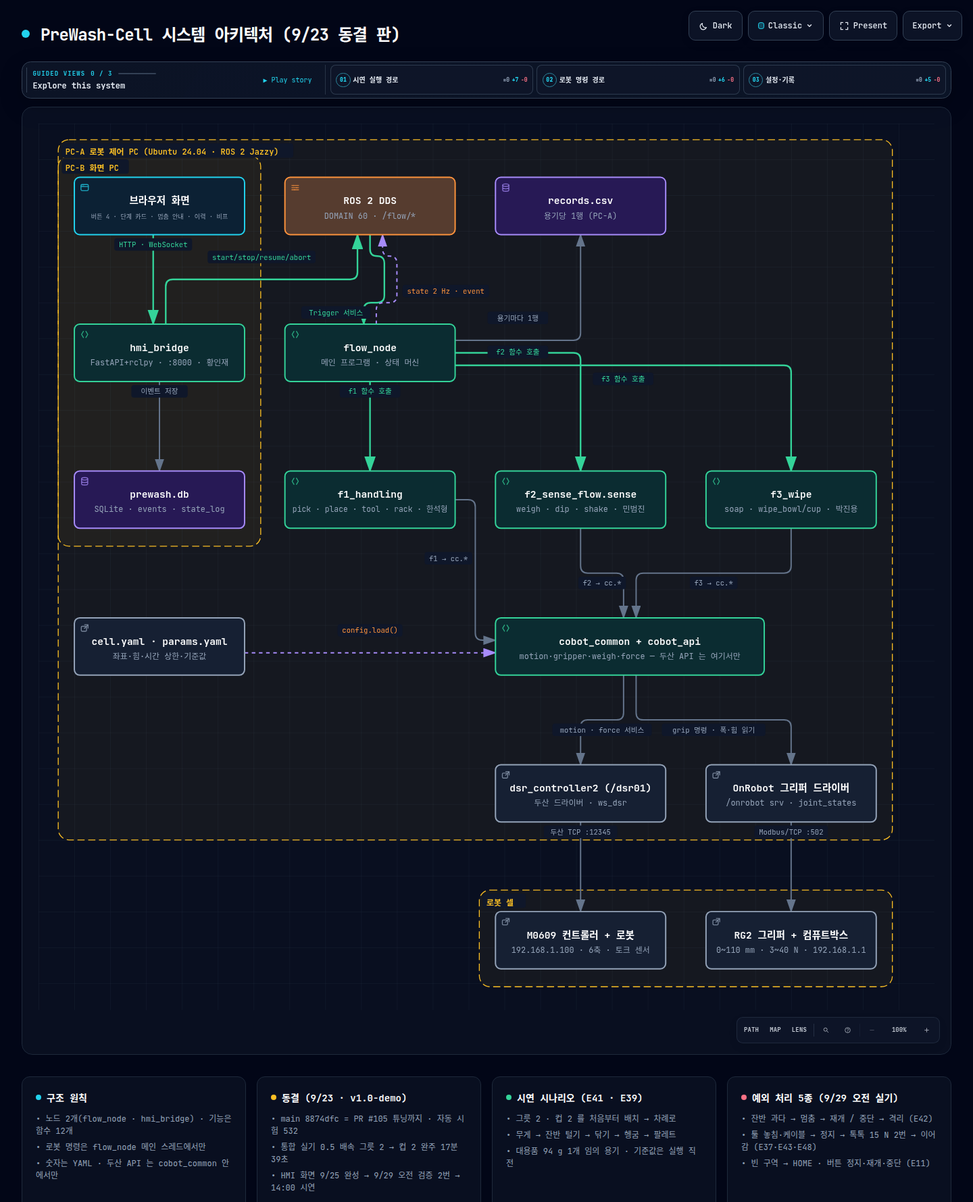
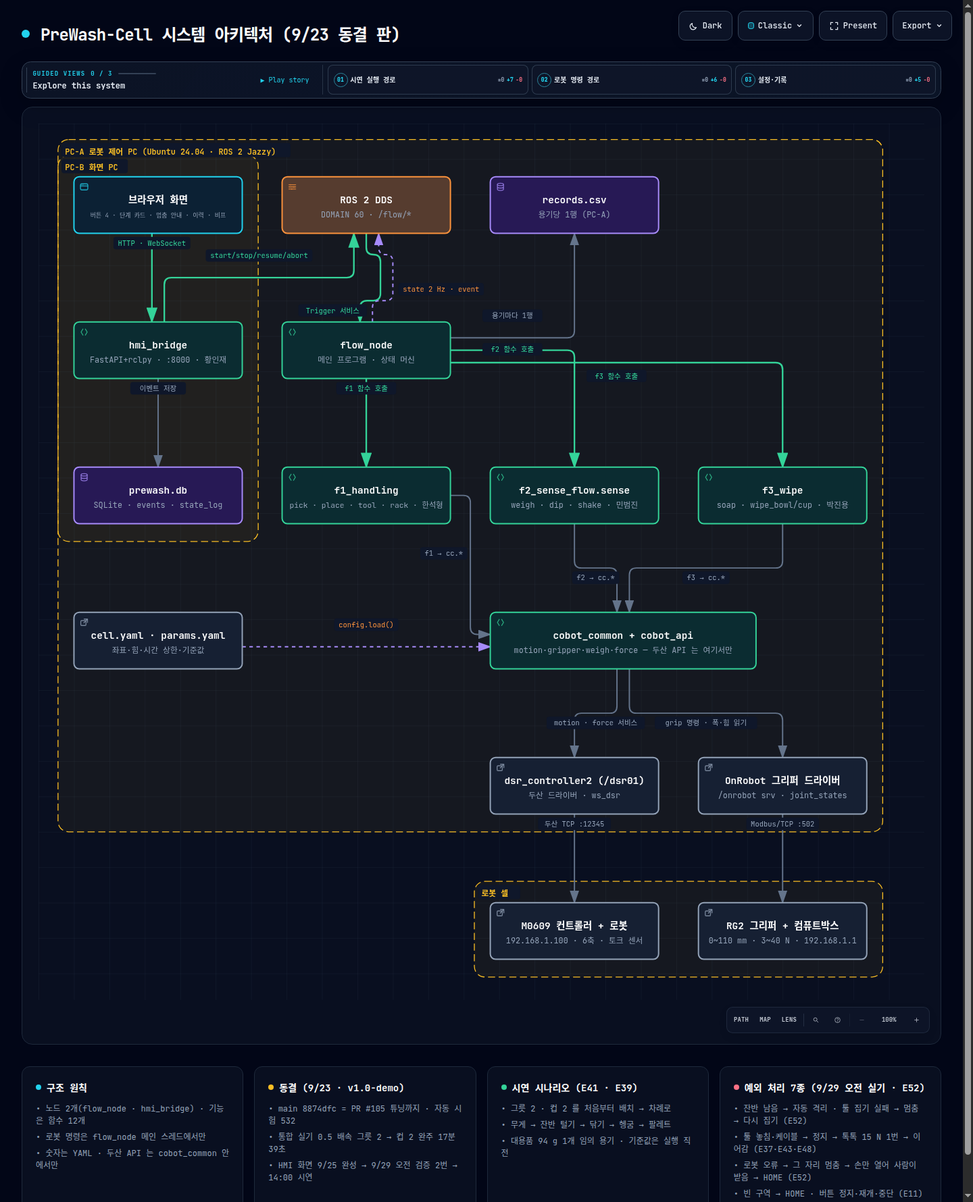
docs: E52 예외 처리 재설계(황인재 9/25 · tune2) 반영 — 결정기록 E52·E42-종결·E51-갱신 · 리마인드 · SDD §6/§7 · IRD §8 · README · 결과표 AC-6 · 아키텍처 예외 카드 7종 · 일정표 v24.9
- 로봇 오류 2단(그 자리 멈춤 · 격리 이동 없음 · 신호 1 → 그리퍼만 열기 → 사람 수거 → 신호 2 → 위로 → HOME)
- LEFTOVER_REMAIN pause → isolate 되돌림(정리 함수 통일로 E42 빈틈 닫힘) · TOOL_FAIL retry → pause
- main 동결판(v1.0-demo)은 그대로 · 코드는 tune2 21e10e7(자동 시험만 · 실기 🟡 9/29)
- 화요일 2회차 예외 7개 + 빈 시작 1분 · 담당 ⑨ 박진용 ⑩ 한석형 · 열린 것: 로봇 오류 만드는 법 · F3 air_force_max_n

diff --git a/docs/images/system_architecture_pc.html b/docs/images/system_architecture_pc.html
@@ -5673,11 +5673,12 @@ OTHER DEALINGS IN THE FONT SOFTWARE.
       <div class="card">
         <div class="card-header">
           <div class="card-dot rose"></div>
-          <h3>예외 처리 5종 (9/29 오전 실기)</h3>
+          <h3>예외 처리 7종 (9/29 오전 실기 · E52)</h3>
         </div>
         <ul>
-          <li>&bull; 잔반 과다 → 멈춤 → 재개 / 중단 → 격리 (E42)</li>
-          <li>&bull; 툴 놓침·케이블 → 정지 → 톡톡 15 N 2번 → 이어감 (E37·E43·E48)</li>
+          <li>&bull; 잔반 남음 → 자동 격리 · 툴 집기 실패 → 멈춤 → 다시 집기 (E52)</li>
+          <li>&bull; 툴 놓침·케이블 → 정지 → 톡톡 15 N 1번 → 이어감 (E37·E43·E48)</li>
+          <li>&bull; 로봇 오류 → 그 자리 멈춤 → 손만 열어 사람이 받음 → HOME (E52)</li>
           <li>&bull; 빈 구역 → HOME · 버튼 정지·재개·중단 (E11)</li>
         </ul>
       </div>

diff --git a/tools/gen/patch_20260919_weekend.py b/tools/gen/patch_20260919_weekend.py
@@ -13,7 +13,7 @@ from livesheet import SID, load, timeline
 import gen_todo
 
 ID = 'AH'
-VERSION = 'v24.8'
+VERSION = 'v24.9'
 OUT = 'prewash_일정표_0919s.xlsx'
 def S(*xs): return [tuple(x.split()) for x in xs]          # S('9/20 오전','9/20 오후')
 
@@ -3159,6 +3159,17 @@ EDIT.update({
 HISTORY198 = ['v24.8', '✅ 완료', 'INT-4, UT-F4, DOC-05, NOTE-02', 'PM 09/25 14:08: HMI 화면 완성(F4 · UT-F4 TC-11 · PR 대기) → 문서·아키텍처 최신화(SDD §6 · README · 아키텍처 · 결과표 04 신설) · 순서 ③ PPT 는 양식 원문 뒤', '황인재 9/25', 'H']
 
 
+
+# ---------------------------------------------------------------- 09/26 07:1x E52 예외 처리 재설계(황인재 9/25 F4 창) → 화요일 2회차 예외 7개 + 빈 시작 · 로봇 시간 ≈33분
+H0925e = '황인재 9/25(F4 창) · PM 09/26 07:1x'
+EDIT.update({
+ 'INT-4b':   dict(note_add=H0925e + ': **E52 예외 처리 재설계** — 로봇 오류 2단(그 자리 멈춤 · 격리 이동 없음 · 신호 1 → 그리퍼만 열기 → 사람 수거 → 신호 2 → 위로 → HOME · 넛지 재개 허용) · 잔반 남음 pause→isolate 되돌림(사람 없이 HOME→격리) · 툴 집기 실패 retry→pause(홀더 확인 → 톡 → 다시 집기) · 힘 상한·시간 초과·중단 정리 함수 통일(위로→HOME→툴 반납→홈 용기 재파지→격리→HOME · E42 빈틈 닫힘) · 코드 tune2 21e10e7(536 통과 · 실기 🟡) · HMI 370eb72 · 대본 645340a. **2회차 = 예외 7개(≈15분)**: ① 케이블 ② 정지/재개 ③ 툴 놓침(그릇 1) ④ 잔반 자동 격리(그릇 2) ⑨ 툴 집기 실패(컵 1 세제 직전 · 솔 빼 두기) ⑤ 중단(컵 1 닦기 · 솔 반납 → 홈 C 재파지 → 격리) ⑩ 로봇 오류 2단(컵 2 헹굼 이동 중) + **3회차 빈 시작 ⑥(1분)** · 로봇 시간 ≈33분(+3). 담당 추가: ⑨ 솔 빼기 박진용 · ⑩ 컵 받기 한석형 · E-Stop 1명. 🟡 열린 결정(황인재 화요일 아침): ⑩ 로봇 오류 만드는 법 (a) 이동 중 팔 막아 충돌 감지 (b) 펜던트 보호정지 (c) 빼고 자동 시험 · F3 질문: wipe_bowl air_force_max_n 3 N vs 9/23 그릇 1 공중 2.99 N(0.01 N 차 · 넘으면 ROBOT_ERROR) — 값은 박진용 소관 · 1회차 로그 보고 판단'),
+ 'REH-02':   dict(note_add=H0925e + ': INT-4b 로봇 시간 ≈33분(+3 · E52 예외 7개 + 빈 시작) — 리허설 시작을 그만큼 뒤로'),
+ 'DOC-05':   dict(note_add=H0925e + ': E52 반영 — 결정기록(E52 · E42-종결 · E51-갱신) · 리마인드 §2·§5 · SDD §7(정책·상태도·표) §6(로봇 오류 2단 안내) · IRD §8 · README §1·§3 · 결과표 AC-6·§6 · 아키텍처 예외 카드 7종 재생성'),
+})
+HISTORY199 = ['v24.9', '✅ 결정', 'INT-4b, REH-02, DOC-05', '황인재 9/25(F4 창): E52 예외 처리 재설계(로봇 오류 2단 · 잔반 자동 격리 · 툴 집기 실패 멈춤 · 정리 함수 통일 · tune2) → 화요일 2회차 예외 7개 + 빈 시작 · 로봇 시간 ≈33분 · 열린 것: 로봇 오류 만드는 법 · F3 air_force 3 N', '황인재 9/25', 'H']
+
+
 def main(out):
     gen_todo.EASY.update(EASY)
     for _t in DELETE: EDIT.pop(_t, None); MOVE.pop(_t, None)
@@ -3259,7 +3270,7 @@ def main(out):
             ru.rows[k] = n
     # 7) 변경이력
     h = b.sheet('변경이력')
-    for hist in (HISTORY, HISTORY2, HISTORY3, HISTORY4, HISTORY5, HISTORY6, HISTORY7, HISTORY8, HISTORY9, HISTORY10, HISTORY11, HISTORY12, HISTORY13, HISTORY14, HISTORY15, HISTORY16, HISTORY17, HISTORY18, HISTORY19, HISTORY20, HISTORY21, HISTORY22, HISTORY23, HISTORY24, HISTORY25, HISTORY26, HISTORY27, HISTORY28, HISTORY29, HISTORY30, HISTORY31, HISTORY32, HISTORY33, HISTORY34, HISTORY35, HISTORY36, HISTORY37, HISTORY38, HISTORY39, HISTORY40, HISTORY41, HISTORY42, HISTORY43, HISTORY44, HISTORY45, HISTORY46, HISTORY47, HISTORY48, HISTORY49, HISTORY50, HISTORY51, HISTORY52, HISTORY53, HISTORY54, HISTORY55, HISTORY56, HISTORY57, HISTORY58, HISTORY59, HISTORY60, HISTORY61, HISTORY62, HISTORY63, HISTORY64, HISTORY65, HISTORY66, HISTORY67, HISTORY68, HISTORY69, HISTORY70, HISTORY71, HISTORY72, HISTORY73, HISTORY74, HISTORY75, HISTORY76, HISTORY77, HISTORY78, HISTORY79, HISTORY80, HISTORY81, HISTORY82, HISTORY83, HISTORY84, HISTORY85, HISTORY86, HISTORY87, HISTORY88, HISTORY89, HISTORY90, HISTORY91, HISTORY92, HISTORY93, HISTORY94, HISTORY95, HISTORY96, HISTORY97, HISTORY98, HISTORY99, HISTORY100, HISTORY101, HISTORY102, HISTORY103, HISTORY104, HISTORY105, HISTORY106, HISTORY107, HISTORY108, HISTORY109, HISTORY110, HISTORY111, HISTORY112, HISTORY113, HISTORY114, HISTORY115, HISTORY116, HISTORY117, HISTORY118, HISTORY119, HISTORY120, HISTORY121, HISTORY122, HISTORY123, HISTORY124, HISTORY125, HISTORY126, HISTORY127, HISTORY128, HISTORY129, HISTORY130, HISTORY131, HISTORY132, HISTORY133, HISTORY134, HISTORY135, HISTORY136, HISTORY137, HISTORY138, HISTORY139, HISTORY140, HISTORY141, HISTORY142, HISTORY143, HISTORY144, HISTORY145, HISTORY146, HISTORY147, HISTORY148, HISTORY149, HISTORY150, HISTORY151, HISTORY152, HISTORY153, HISTORY154, HISTORY155, HISTORY156, HISTORY157, HISTORY158, HISTORY159, HISTORY160, HISTORY161, HISTORY162, HISTORY163, HISTORY164, HISTORY165, HISTORY166, HISTORY167, HISTORY168, HISTORY169, HISTORY170, HISTORY171, HISTORY172, HISTORY173, HISTORY174, HISTORY175, HISTORY176, HISTORY177, HISTORY178, HISTORY179, HISTORY180, HISTORY181, HISTORY182, HISTORY183, HISTORY184, HISTORY185, HISTORY186, HISTORY187, HISTORY188, HISTORY189, HISTORY190, HISTORY191, HISTORY192, HISTORY193, HISTORY194, HISTORY195, HISTORY196, HISTORY197, HISTORY198):
+    for hist in (HISTORY, HISTORY2, HISTORY3, HISTORY4, HISTORY5, HISTORY6, HISTORY7, HISTORY8, HISTORY9, HISTORY10, HISTORY11, HISTORY12, HISTORY13, HISTORY14, HISTORY15, HISTORY16, HISTORY17, HISTORY18, HISTORY19, HISTORY20, HISTORY21, HISTORY22, HISTORY23, HISTORY24, HISTORY25, HISTORY26, HISTORY27, HISTORY28, HISTORY29, HISTORY30, HISTORY31, HISTORY32, HISTORY33, HISTORY34, HISTORY35, HISTORY36, HISTORY37, HISTORY38, HISTORY39, HISTORY40, HISTORY41, HISTORY42, HISTORY43, HISTORY44, HISTORY45, HISTORY46, HISTORY47, HISTORY48, HISTORY49, HISTORY50, HISTORY51, HISTORY52, HISTORY53, HISTORY54, HISTORY55, HISTORY56, HISTORY57, HISTORY58, HISTORY59, HISTORY60, HISTORY61, HISTORY62, HISTORY63, HISTORY64, HISTORY65, HISTORY66, HISTORY67, HISTORY68, HISTORY69, HISTORY70, HISTORY71, HISTORY72, HISTORY73, HISTORY74, HISTORY75, HISTORY76, HISTORY77, HISTORY78, HISTORY79, HISTORY80, HISTORY81, HISTORY82, HISTORY83, HISTORY84, HISTORY85, HISTORY86, HISTORY87, HISTORY88, HISTORY89, HISTORY90, HISTORY91, HISTORY92, HISTORY93, HISTORY94, HISTORY95, HISTORY96, HISTORY97, HISTORY98, HISTORY99, HISTORY100, HISTORY101, HISTORY102, HISTORY103, HISTORY104, HISTORY105, HISTORY106, HISTORY107, HISTORY108, HISTORY109, HISTORY110, HISTORY111, HISTORY112, HISTORY113, HISTORY114, HISTORY115, HISTORY116, HISTORY117, HISTORY118, HISTORY119, HISTORY120, HISTORY121, HISTORY122, HISTORY123, HISTORY124, HISTORY125, HISTORY126, HISTORY127, HISTORY128, HISTORY129, HISTORY130, HISTORY131, HISTORY132, HISTORY133, HISTORY134, HISTORY135, HISTORY136, HISTORY137, HISTORY138, HISTORY139, HISTORY140, HISTORY141, HISTORY142, HISTORY143, HISTORY144, HISTORY145, HISTORY146, HISTORY147, HISTORY148, HISTORY149, HISTORY150, HISTORY151, HISTORY152, HISTORY153, HISTORY154, HISTORY155, HISTORY156, HISTORY157, HISTORY158, HISTORY159, HISTORY160, HISTORY161, HISTORY162, HISTORY163, HISTORY164, HISTORY165, HISTORY166, HISTORY167, HISTORY168, HISTORY169, HISTORY170, HISTORY171, HISTORY172, HISTORY173, HISTORY174, HISTORY175, HISTORY176, HISTORY177, HISTORY178, HISTORY179, HISTORY180, HISTORY181, HISTORY182, HISTORY183, HISTORY184, HISTORY185, HISTORY186, HISTORY187, HISTORY188, HISTORY189, HISTORY190, HISTORY191, HISTORY192, HISTORY193, HISTORY194, HISTORY195, HISTORY196, HISTORY197, HISTORY198, HISTORY199):
         if not has(h, 'A', hist[0]):
             k = h.first_empty(); n = h.rows[k - 1].clone()
             for c, v in zip('ABCDEF', hist): n.set(c, v)

diff --git a/docs/03_설계_SDD.md b/docs/03_설계_SDD.md
@@ -299,8 +299,8 @@ f3:                                                                 # ── f3 
 flow:                                                               # ── flow 절 (민범진) ──
   plan: [{zone: RET_B, kind: BOWL, count: 2}, {zone: RET_C, kind: CUP, count: 2}]
   rack_order: {BOWL: [RACK_B1, RACK_B2], CUP: [RACK_C1, RACK_C2]}
-  policy: {EMPTY_ZONE: next_zone, LEFTOVER_REMAIN: pause, SEAT_FAIL: isolate,
-           FORCE_LIMIT: retry:1->isolate, TIMEOUT: retry:1->isolate, RACK_JAM: retry:1->isolate, TOOL_FAIL: retry:1->isolate,
+  policy: {EMPTY_ZONE: next_zone, LEFTOVER_REMAIN: isolate, SEAT_FAIL: isolate,      # 🔄 E52(9/25 · tune2): LEFTOVER_REMAIN isolate · TOOL_FAIL pause — main 동결판은 pause · retry:1->isolate
+           FORCE_LIMIT: retry:1->isolate, TIMEOUT: retry:1->isolate, RACK_JAM: retry:1->isolate, TOOL_FAIL: pause,
            RACK_FULL: pause, ROBOT_ERROR: pause}
   consumables: {sponge_max_uses: 20, soap_max_dips: 60}
   use_mock: []                       # 가짜 모듈로 바꿀 기능. 예: [f1, f3] · 전부 mock 이면 드라이버 없이 돈다 (런치 인자 use_mock 이 덮어씀)
@@ -346,7 +346,7 @@ stateDiagram-v2
   WEIGH --> SHAKE: LEFTOVER
   WEIGH --> SEAT: ok
   SHAKE --> WEIGH: 재측정 (≤max_rounds)
-  SHAKE --> PAUSED: LEFTOVER_REMAIN (E42 · 사람이 재개 / 중단→격리)
+  SHAKE --> ISOLATE: LEFTOVER_REMAIN (E52 · 사람 없이 위로→HOME→격리→HOME · main 동결판은 E42 PAUSED)
   SEAT --> SOAP: ok
   SEAT --> ISOLATE: SEAT_FAIL
   SOAP --> WIPE
@@ -364,9 +364,10 @@ stateDiagram-v2
   NEXT_ZONE --> PICK: 다음 구역
   NEXT_ZONE --> DONE: 구역 없음
   state "any" as ANY
-  ANY --> PAUSED: stop / ROBOT_ERROR
+  ANY --> PAUSED: stop / ROBOT_ERROR / TOOL_FAIL(E52)
+  PAUSED --> PICK: ROBOT_ERROR 2단 (E52 · 신호 1 → 그리퍼만 열기 → 사람 수거 → 신호 2 → 위로 → HOME → ERROR 기록 → 다음 용기)
   PAUSED --> (이전 상태): resume (하던 동작을 이어서 · 실패한 단계부터 다시)
-  PAUSED --> ISOLATE: abort (사람이 문제라고 판단 — 툴 반납 → 격리 → HOME → 다음 용기, ROBOT_ERROR 에서는 거부)
+  PAUSED --> ISOLATE: abort (사람이 문제라고 판단 — 위로 → HOME → 툴 반납 → 홈 용기 재파지 → 격리 → HOME → 다음 용기 · E52 정리 함수 통일, ROBOT_ERROR 에서는 거부)
 ```
 - 각 전이에서 `/flow/state` 발행(2 Hz 타이머 + 전이 즉시), 용기 종료 시 `/flow/event` + CSV 1행.
 - ✅ **정지 방식(황인재 9/20)** — 목적: 문제가 생겼을 때 **바로 멈췄다가, 사람이 보고 문제없으면 이어서** 하기. ① **일시 정지**(`/flow/stop`): 통신 노드가 두산 `move_pause`를 불러 **이동 도중 즉시** 멈춘다 — 이동 함수(`motion.py`)를 비동기 이동(`amovej`/`amovel`) + `check_motion` 폴링으로 바꿔야 성립한다(V-24a 시험: 동기 이동 중에는 `move_pause`가 이동이 끝난 뒤에야 처리된다 · 비동기에서는 0.13 s에 멈추고 `move_resume`으로 같은 동작이 이어진다). 호출하는 쪽(F1·F2·F3)의 코드는 바뀌지 않는다. ② **재개**(`/flow/resume`): 하던 이동을 이어서. ③ **중단**(`/flow/abort`): 그 용기를 접고(툴 반납 → 격리 → HOME) 다음 용기. ④ 🚨 **먹는 범위(구현 #34 기준으로 정정)**: 이동 함수를 거치는 모든 이동에서 즉시 멈춘다 — **접촉 하강·닦기의 걸음(`move_rel`)도 걸음 도중에 멈춘다**(순응·힘제어는 켜진 채 그 자리에 선다). 끝난 뒤에야 멈추는 것은 `move_periodic`(안착 탐색)·그리퍼·무게 대기뿐이다. 힘이 걸린 채 멈추는 동작은 Virtual에서 시험할 수 없었으므로 **9/22 오전 실기(V-24, 황인재 + 박진용)에서 확인**하고, 문제가 있으면 그 구간에서는 일시 정지를 미루게 한다. ⑤ 되돌아갈 자리: 9/22 오전까지 실기 확인이 안 되면 아래의 "단계 사이 정지"만으로 시연한다(서비스 이름이 같아 HMI는 그대로).
@@ -465,7 +466,7 @@ return EMPTY_ZONE (attempts = 슬롯 수)
 | 연결 표시 | 맨 위 점: `flow 연결됨` / `flow 연결 끊김 — 마지막 값`(2 s 이상 `/flow/state` 없음 · 버튼 전부 비활성 · 마지막 화면 유지) / `HMI 서버에 닿지 않는다` |
 | 시작 | IDLE 에서만 활성. plan 순서대로 처리 |
 | 일시 정지 | 항상 표시 · 운전 중에만 활성 = 즉시 멈춤 → PAUSED(힘제어·접촉 구간은 그 동작을 마친 뒤 — §5.1) |
-| 재개 · 중단 | PAUSED 에서만. **재개** = 멈춘 단계부터 이어서 · **중단** = 그 용기를 접고(HOME → 툴 반납 → 격리 → HOME · E11) 다음 용기. 로봇 오류(ROBOT_ERROR) 멈춤에서는 중단 비활성 — 단 **케이블 이상**(코드는 ROBOT_ERROR + '케이블' 문구)은 중단 가능(`flow.handle_cable_tight` 와 일치). 누르면 flow 의 대답 문구를 그대로 보여 준다(응답 ≤ 1 s · TC-11) |
+| 재개 · 중단 | PAUSED 에서만. **재개** = 멈춘 단계부터 이어서 · **중단** = 그 용기를 접고(HOME → 툴 반납 → 격리 → HOME · E11) 다음 용기. 로봇 오류(ROBOT_ERROR) 멈춤에서는 중단 비활성 — 단 **케이블 이상**(코드는 ROBOT_ERROR + '케이블' 문구)은 중단 가능(`flow.handle_cable_tight` 와 일치). 🔄 E52(9/25 · tune2 · HMI 370eb72): 로봇 오류 멈춤은 **2단 안내** — 신호 1(톡 15 N 1번 또는 재개) → 그리퍼만 열림 → 사람이 받음 → 신호 2 → 위로 → HOME → 이 용기 오류 기록 · 빈손이면 신호 1번 · 로봇 오류도 넛지 재개 허용 · 갈래 `tool_fail` 추가(홀더 확인 → 톡 → 다시 집기). 누르면 flow 의 대답 문구를 그대로 보여 준다(응답 ≤ 1 s · TC-11) |
 | 멈춤 안내(알람 상자) | PAUSED 면 **원인별** 제목 + 무슨 일 + 할 일 1~3 + 코드(§7 문구): 운영자 정지 · 케이블 이상(주황 · 붉지 않음) · 툴 놓침(홀더에 다시 꽂고 넛지/재개) · 잔반 남음(E42 · 덜고 재개 / 중단) · 집기 실패 · 팔레트 가득 · 로봇 오류(🚨 붉음 · 운영자 복구) |
 | 단계 표시줄 | 8단계 그림 카드 + 격리 · 지금 = 파랑 · 멈춤 = 주황(멈춘 단계를 기억) · 로봇 오류 = 붉음 |
 | 지금 하는 일 | 큰 그림 · 한 줄 설명 · 이번 용기 경과 · 몇 번째 · 다음 할 일 · 상태 알약(`진행 중` · `일시 정지` · `멈춤 — 툴 놓침` …) |
@@ -480,16 +481,16 @@ return EMPTY_ZONE (attempts = 슬롯 수)
 | 코드 | 발생 | 처리 | 표시 |
 |---|---|---|---|
 | `EMPTY_ZONE` | 탐색 최대 횟수까지 파지 실패 | 구역 종료, 다음 구역 (SKIPPED 기록) | 정보 |
-| `LEFTOVER_REMAIN` | 털기 후에도 임계 초과 | 🔄 E42(9/23): **멈춤(PAUSED)** → 사람이 재개(다시 잰다) / 중단(HOME → 격리) — 정책 isolate 갈래는 로봇을 옮기지 않아(기록만) 든 용기를 떨어뜨리므로 시연은 pause | 경고 |
+| `LEFTOVER_REMAIN` | 털기 후에도 임계 초과 | 🔄 E52(9/25 · tune2 · 🟡 9/29 ④): **격리(isolate)** — 사람 없이 위로 → HOME → 격리 → HOME → 다음 용기(#90/#103 경로 · 정리 함수 통일). E42(9/23)의 pause 는 정책 isolate 가 기록만 남기던 빈틈 때문이었고 E52 로 닫힘 — main 동결판은 아직 pause | 경고 |
 | `SEAT_FAIL` | 탐색 한도 초과 | 격리 | 경고 |
-| `TOOL_FAIL` | 툴 폭 범위 밖(툴 없음) | 재시도 1회 → 격리 | 경고 |
+| `TOOL_FAIL` | 툴 폭 범위 밖(툴 없음) | 🔄 E52(9/25 · tune2): **멈춤(PAUSED)** — 격리 없이 홀더 확인 → 톡 15 N 1번(또는 재개) → 툴 집기부터 다시(툴 놓침 뒤 재PICK 실패도 같음). main 동결판은 재시도 1회 → 격리 | 경고 |
 | `GRIP_FAIL` | f2: 털기·담금 전후 그리퍼 폭이 `slip_tol_mm` 넘게 변함(미끄러짐) · 무게가 `min_net_g` 아래(빈손) | ✅ **PAUSED + 알림 → 사람이 확인**(황인재 9/20 — `params.yaml` `flow.policy.GRIP_FAIL: pause`). pick 안의 헛잡음은 지금처럼 F1 이 다음 시도로 소화 | 오류 |
-| `FORCE_LIMIT` / `TIMEOUT` | 닦기·삽입·하강 | 즉시 후퇴 → 재시도 1회 → 격리 | 경고 |
+| `FORCE_LIMIT` / `TIMEOUT` | 닦기·삽입·하강 | 즉시 후퇴 → 재시도 1회 → 격리 — 🔄 E52(9/25 · tune2): 격리는 **정리 함수 하나**(위로 → HOME → 툴 반납 → 스펀지 홈에 용기가 있으면 다시 집고 HOME → 격리 → HOME · 중단 버튼과 같은 길 · 기록 코드는 원인 유지) — E42 가 지적한 "기록만" 빈틈 닫힘 | 경고 |
 | `RACK_JAM` | 삽입 걸림 | 후퇴 → 재시도 1회 → 격리 — 🔄 E44(9/23): 적재를 감시 없이 곧게 놓으므로 **시연 코드에서는 발생하지 않는다**(걸리면 컨트롤러 충돌 감지 → `ROBOT_ERROR`) | 경고 |
 | `RACK_FULL` | 칸 소진 | PAUSED + 알림 | 오류 |
 | `TOOL_LOST` 🆕 E37(9/23) | 닦는 중(soap · wipe) 그리퍼 폭이 기준에서 `slip_tol_mm` 넘게 벗어남(툴 놓침 · f3 감시 스레드가 `halt`) | **그 자리 정지 → PAUSED + 알림** → 사람이 툴을 홀더에 넣고 **넛지(15 N · 1번 · E48) 또는 HMI 재개** → 로봇 STANDBY 확인 → `f1.tool(PICK)` 재호출(집은 자리로 곧장) → 놓친 단계부터 이어감(PR #99). 격리 아님 | 경고 |
 | 케이블 이상(코드 아님 · 🆕 #93) | 무게 재기 표본의 떨림이 `f2.limits.max_weigh_spread_g`(**80 g** · E47) 초과 → `CableTightError` | **PAUSED + 알림**(케이블 확인 요청) → 사람이 케이블 정리 → 톡톡(넛지) 또는 HMI 재개 → 떨림 재검증(10 표본) → 정상이면 **안전정지(SAFE_STOP) 자동 해제**(`set_robot_control` · PR #102 · E43) → 그 단계부터 이어감 · 이상이면 계속 대기 | 경고 |
-| `ROBOT_ERROR` | dsr 오류·충돌 정지·기능 함수에서 새어 나온 예외 | ✅ **그 자리 정지 → PAUSED + 알림, 사람이 복구**(황인재 9/20). 명령이 아직 나가면 `safe_retreat()`를 한 번만 시도한다. 🚨 **단 `cc.MoveIncomplete` 는 예외다 — 후퇴(`safe_retreat`)도 하지 않는다**(9/21 추가): 그 오류는 "로봇이 어디 있는지 모른다"는 뜻이라 어떤 자동 이동도 위험하다(9/21 08:40 실기: 6번 관절 163° 회전으로 **케이블이 꼬인 채** 멈췄는데 도구가 자동으로 HOME 으로 가려 했다). 힘·순응은 끄되(모션이 아니다) **움직이지 않고** 사람에게 넘긴다. 힘 상한(`ForceLimitError`)은 로봇이 정상이라는 뜻이므로 설계대로 후퇴한다 — 구분해서 처리한다. 🚨 두산 `DR_Error`(우리 코드가 두산 함수에 잘못된 인자를 넘긴 경우 — 설치된 `DSR_ROBOT2.py`의 896곳이 전부 인자 타입·값 오류)가 나면 두산 코드가 그 프로세스의 `rclpy.shutdown()`을 불러 **같은 프로그램에서는 더 이상 명령을 못 보낸다** → 운영자가 새 프로세스로 `src/cobot_common/test/release_force.py`(남은 힘·순응 끄기)를 실행 → 셀 재시작. 예방은 Virtual 연속 3회 시험(§3.2 ⑧) | 오류 |
+| `ROBOT_ERROR` | dsr 오류·충돌 정지·기능 함수에서 새어 나온 예외 | ✅ **그 자리 정지 → PAUSED + 알림, 사람이 복구**(황인재 9/20). 🔄 **E52(9/25 · tune2)**: 격리 구역으로 가지 않는다(위치를 모를 수 있다). 쥔 것이 있으면 **2단** — 신호 1(톡 15 N 1번 또는 재개 버튼) → 그리퍼만 열기(팔 안 움직임) → 사람이 받아 처리(툴은 홀더에 · 스펀지 홈 용기도) → 신호 2 → 곧게 위로 → HOME → 이 용기 ERROR 기록 → 다음 용기. 빈손이면 신호 1번. 힘을 못 읽으면 재개 버튼만 기다린다. 신호 2 뒤의 이동은 사람이 로봇 상태를 보고 주는 것이므로 아래 MoveIncomplete 규칙과 어긋나지 않는다. 명령이 아직 나가면 `safe_retreat()`를 한 번만 시도한다. 🚨 **단 `cc.MoveIncomplete` 는 예외다 — 후퇴(`safe_retreat`)도 하지 않는다**(9/21 추가): 그 오류는 "로봇이 어디 있는지 모른다"는 뜻이라 어떤 자동 이동도 위험하다(9/21 08:40 실기: 6번 관절 163° 회전으로 **케이블이 꼬인 채** 멈췄는데 도구가 자동으로 HOME 으로 가려 했다). 힘·순응은 끄되(모션이 아니다) **움직이지 않고** 사람에게 넘긴다. 힘 상한(`ForceLimitError`)은 로봇이 정상이라는 뜻이므로 설계대로 후퇴한다 — 구분해서 처리한다. 🚨 두산 `DR_Error`(우리 코드가 두산 함수에 잘못된 인자를 넘긴 경우 — 설치된 `DSR_ROBOT2.py`의 896곳이 전부 인자 타입·값 오류)가 나면 두산 코드가 그 프로세스의 `rclpy.shutdown()`을 불러 **같은 프로그램에서는 더 이상 명령을 못 보낸다** → 운영자가 새 프로세스로 `src/cobot_common/test/release_force.py`(남은 힘·순응 끄기)를 실행 → 셀 재시작. 예방은 Virtual 연속 3회 시험(§3.2 ⑧) | 오류 |
 | 통신 끊김 | `/flow/state` 2 s 이상 없음 | HMI 버튼 비활성, 빨간 표시 | 오류 |
 공통: 어떤 실패에서도 툴은 홀더에 반납, 로봇은 안전 높이. GRIP_FAIL은 `pick` 내부 재탐색으로 소화.
 🔄 **E44(9/23 · 황인재)**: 놓기·팔레트 적재·툴 반납은 **힘 감시 없이** 티칭/집은 자리로 곧게 내려가 놓고 마지막 15 mm 만 30 mm/s 로 완충한다(`f1.insert_approach_mm 0` · `tool_return_depth_mm 0` · `land_slow_mm 15`) — 삽입 걸림·홀더 밀림 판정이 없고 컨트롤러 충돌 감지가 마지막 보호. 값을 양수로 두면 예전 감시 갈래로 돌아간다. 위 예외 중 흐름 안 실기가 없는 것(빈 구역 · 잔반 과다 멈춤 · 툴 놓침 · 케이블 · 버튼)은 **9/29 오전 INT-4b 대본**으로 확인하고 통과한 것만 시연에 넣는다(E45).

diff --git a/README.md b/README.md
@@ -18,7 +18,7 @@
 ```
 - **그릇·컵 모두** 위 순서 전부(컵도 무게·잔반 버리기 — 결정 E30). 컵은 반납 자리에서 테두리를 집고(E29), 스펀지 홈에서 **옆면 몸통**으로 다시 잡아(70 mm · 10 N · E38) 헹군 뒤 뒤집어 꽂는다.
 - 시연 시나리오(강사 피드백 · E41): **그릇 2 · 컵 2 를 처음부터 다 놓아 두고** 그릇1 → 그릇2 → 컵1 → 컵2 순으로 **정상 흐름을 끝까지**(예외 처리는 시연 목표에서 제외 · E28). 배속 0.5(E40) · 잔반 대용품은 2개(≈190 g) 기준.
-- 실패하면(예외 처리 · **9/29 오전 실기로 확인한 것만 시연 대본에** · E45): 빈 구역 → 건너뛰고 HOME(#98) / **잔반이 계속 남음 → 멈춤 → 사람이 재개(다시 잼) 또는 중단(HOME → 격리 → 다음 용기)**(E42) / 안착 실패 → 격리 / **닦는 중 툴 놓침 → 그 자리 정지 → 홀더에 넣고 톡톡(15 N · 1번) 또는 화면 재개 → 다시 집고 이어감**(E37 · E48) / **무게 떨림 > 80 g(케이블 당김) → 멈춤 → 케이블 정리 → 톡톡 → 재검증 → 안전정지 자동 해제 → 이어감**(E43 · E47) / 용기 놓침·로봇 오류 → 멈추고 사람이 확인. 놓기·적재·툴 반납은 힘 감시 없이 곧게 내려가 놓는다(E44 · 걸림은 충돌 감지). 화면 버튼: 정지(즉시) · 재개 · 중단(HOME → 툴 반납 → 격리 → HOME · E11).
+- 실패하면(예외 처리 · **9/29 오전 실기로 확인한 것만 시연 대본에** · E45): 빈 구역 → 건너뛰고 HOME(#98) / **잔반이 계속 남음 → 사람 없이 위로 → HOME → 격리 → HOME → 다음 용기**(E52 · tune2 · 🟡 9/29 ④ · 동결판 main 은 멈춤 E42) / 안착 실패 → 격리 / **툴 집기 실패 → 멈춤 → 홀더 확인 → 톡톡 → 다시 집기**(E52) / **닦는 중 툴 놓침 → 그 자리 정지 → 홀더에 넣고 톡톡(15 N · 1번) 또는 화면 재개 → 다시 집고 이어감**(E37 · E48) / **무게 떨림 > 80 g(케이블 당김) → 멈춤 → 케이블 정리 → 톡톡 → 재검증 → 안전정지 자동 해제 → 이어감**(E43 · E47) / 용기 놓침 → 멈추고 사람이 확인 / **로봇 오류 → 그 자리 멈춤(격리로 안 감) → 쥔 것이 있으면 톡톡·재개 → 손만 열기 → 사람이 받음 → 다시 톡톡·재개 → 위로 → HOME → 다음 용기**(E52). 놓기·적재·툴 반납은 힘 감시 없이 곧게 내려가 놓는다(E44 · 걸림은 충돌 감지). 화면 버튼: 정지(즉시) · 재개 · 중단(위로 → HOME → 툴 반납 → 홈 용기 재파지 → 격리 → HOME · E11 · E52 정리 통일).
 
 ## 2. 구조 한눈에 (PC 2대 · 프로그램 2개)
 
@@ -57,11 +57,11 @@
 | F2 흐름(flow) | 상태 머신 · 실패 정책(재시도 · 격리 · 정지) · 정지/재개/중단 · 기록 · 툴·TCP 문지기 · 계획(구역마다 2개) | 자동 + **실기(flow_node 리허설 2회)** | `20260921_UT-FLOW_*` · 9/23 기록 §17~18 |
 | F3 닦기 | 세제 → 그릇 닦기(바닥 힘으로 찾기 → 나선 → 벽면) · 컵 닦기(솔) → 반납 — 흐름 안에서 그릇·컵 모두 | 실기 | `20260920_V-03_*` · `20260921_V-10_*` · 9/23 기록 |
 | F4 화면 | 운영 화면 **9/25 완성**(단계 카드 · 팔레트 그림 · 숫자 · 이력 · 버튼 4 · 멈춤 원인별 안내 7갈래 · 넛지 비프 · 끊김 표시) · 가짜 flow 대본 8종 · UT-F4 TC-11 브라우저 12항목 ✅ | 가짜 flow ✅ · 실제 flow 연결 🟡(9/29 준비 10분) · 소리 🟡(귀로) | `20260925_UT-F4_TC-11_*` · 브랜치 `injae/20260925-F4-hmi-complete`(PR 대기) · `src/f4_hmi/README.md` |
-| 새 기능(9/23) | 그릇 격리 경로(#90 · 중단 정리에서 씀 · #103 흐름 갈래는 E42 로 미사용) · 세제 펌프(#100 · 제품 함수 · **기본 꺼짐** · 9/29 구매 뒤 결정) · 케이블 이상 → 멈춤 → 톡톡 재개(#93) + 안전정지 자동 해제(#102 · E43) · 툴 놓침 TOOL_LOST → 정지 → 넛지 → 재PICK(#99 · E37) · 넛지 힘 15 N 통일 · 1번(E48 · 9/24 22:1x 2번 철회) | 실기(케이블 1회 · 툴 놓침 rig) · 🟡 **흐름 안 예외 5종은 9/29 오전 INT-4b** | PR #90 #93 #99 #100 #102 #103 · 대본 `docs/test_logs/20260929_INT-4b_*`(PR 대기) |
+| 새 기능(9/23) | 그릇 격리 경로(#90 · 중단 정리에서 씀 · #103 흐름 갈래는 E52 로 다시 사용 · tune2) · 세제 펌프(#100 · 제품 함수 · **기본 꺼짐** · 9/29 구매 뒤 결정) · 케이블 이상 → 멈춤 → 톡톡 재개(#93) + 안전정지 자동 해제(#102 · E43) · 툴 놓침 TOOL_LOST → 정지 → 넛지 → 재PICK(#99 · E37) · 넛지 힘 15 N 통일 · 1번(E48 · 9/24 22:1x 2번 철회) | 실기(케이블 1회 · 툴 놓침 rig) · 🟡 **흐름 안 예외 7종 + 빈 시작은 9/29 오전 INT-4b**(E52 재설계 · tune2 21e10e7 자동 시험만) | PR #90 #93 #99 #100 #102 #103 · 대본 `docs/test_logs/20260929_INT-4b_*`(PR 대기) |
 | 안전 | 접촉 동작마다 힘 상한·후퇴·타임아웃(배속·거리에 맞춰 늘림 · 최소 30 s) · 놓기·적재·툴 반납은 감시 없이 곧게 + 마지막 15 mm 완충(E44 · 황인재 결정) · 로봇 위치를 모르면 자동으로 안 움직임 · 수조 안에서는 먼저 곧게 위로 · 빈손이면 털기·담금 거부 · 툴·TCP 이름 확인 · 실기 끝나면 Ctrl+C 뒤 랜선 | 규칙 + 코드 | `AGENTS.md` §3 · `docs/00_현재상황_리마인드.md` §6 · `docs/troubleshooting/` |
 
 **동결 뒤(9/24~)**: 추석(9/24~28)은 로봇 없이 화면(HMI)·문서만. **9/29(화) 오전** 브링업 → 좌표 재현 10분 → 리허설 1회(0.5) → 대용품 94 g 무게 확인 → 예외 시나리오 5종 실기(INT-4b 대본) → 기준값 2종 → **14:00 최종 시연**(정상 흐름 + 오전 통과한 시나리오만 · E28 · E45). 동결 뒤 코드는 시연 경로 무영향 안전장치만, 실기 확인 뒤 반영.
-자동 시험은 **532개**(9/23 동결 · 두 환경에서 통과). 시험 기록은 `docs/test_logs/`, 결정은 `docs/meetings/20260919_결정기록_DSN-03.md`(E1~E48). 9/23 merge 된 PR: #89~#105(튜닝 #105 까지 = `v1.0-demo`).
+자동 시험은 **532개**(9/23 동결 · 두 환경에서 통과). 시험 기록은 `docs/test_logs/`, 결정은 `docs/meetings/20260919_결정기록_DSN-03.md`(E1~E52). 9/23 merge 된 PR: #89~#105(튜닝 #105 까지 = `v1.0-demo`).
 
 ## 4. 실행 방법 — 무엇을 치면 무엇이 도는가
 
@@ -155,7 +155,7 @@ soc && ros2 run f4_hmi hmi_bridge                # http://<PC-B>:8000 — 시작
 | 요구사항 (BR · FR · NFR · SR · 추적표) | [docs/01_요구사항_BR-SR.md](docs/01_요구사항_BR-SR.md) |
 | 함수·메시지 약속 (계약 정본) | [docs/02_인터페이스_IRD.md](docs/02_인터페이스_IRD.md) · [`src/cobot_api/cobot_api/contracts.py`](src/cobot_api/cobot_api/contracts.py) · [docs/interfaces/](docs/interfaces/) |
 | 설계 (아키텍처 · 상태 머신 · YAML 양식 · 오류·안전 · §9 테스트 계획) | [docs/03_설계_SDD.md](docs/03_설계_SDD.md) |
-| 결정 기록 (E1~E51 · 왜 그렇게 했나) | [docs/meetings/20260919_결정기록_DSN-03.md](docs/meetings/20260919_결정기록_DSN-03.md) |
+| 결정 기록 (E1~E52 · 왜 그렇게 했나) | [docs/meetings/20260919_결정기록_DSN-03.md](docs/meetings/20260919_결정기록_DSN-03.md) |
 | 시험 기록 (날짜_ID_내용_이름.md) | [docs/test_logs/](docs/test_logs/) |
 | **결과표 (as-built · 수락 기준 현황 · 사이클 타임 · 무게·힘 · 사고와 교훈 · 남은 🟡)** | [docs/04_결과_결과표.md](docs/04_결과_결과표.md) |
 | 트러블슈팅 (TS-01 두산 API 초기화 … TS-08 수조 안에서 HOME 으로 가다 충돌) | [docs/troubleshooting/](docs/troubleshooting/) |

diff --git a/docs/00_현재상황_리마인드.md b/docs/00_현재상황_리마인드.md
@@ -42,7 +42,8 @@
 | 코드 | 정책 | 뜻 |
 |---|---|---|
 | `EMPTY_ZONE` | next_zone | 구역이 비었다 → 다음 구역 (🔄 E29: 컵도 폭 판정이 생겨 이 판정이 가능 — 🟡 실기 확인 전) |
-| `LEFTOVER_REMAIN` | 🔄 **pause**(E42 · 9/23) | 털어도 잔반이 남는다 → **멈춤** → 사람이 재개(다시 잰다) / 중단(HOME → 격리 → 다음 용기). 🚨 정책 isolate 는 로봇을 옮기지 않고 기록만 남겨 다음 PICK 의 손 벌리기가 든 용기를 떨어뜨린다(9/23 발견) — 시연 뒤 물리 격리를 넣으면 되돌림 |
+| `LEFTOVER_REMAIN` | 🔄 **isolate**(E52 · 9/25 · tune2 · 🟡 9/29 ④) — main 동결판은 pause(E42) | 털어도 잔반이 남는다 → **사람 없이** 위로 → HOME → 격리 → HOME → 다음 용기(#90/#103 경로 · E52 정리 함수 통일로 "기록만" 빈틈 닫힘). 9/29 ④ 실패 시 pause 로 되돌림(설정 한 줄) |
+| `TOOL_FAIL` · `ROBOT_ERROR` | 🔄 E52(9/25 · tune2) | 툴 집기 실패 → **멈춤** → 홀더 확인 → 톡 → 툴 집기부터 다시(격리 X) · 로봇 오류 → 그 자리 멈춤(격리 이동 X) → 쥔 것 있으면 신호 1 → 그리퍼만 열기 → 사람 수거 → 신호 2 → 위로 → HOME → ERROR 기록 |
 | `GRIP_FAIL` | **pause** | 털기·담금 중 놓침 → 멈추고 **사람이 확인**(E12) |
 | `SEAT_FAIL` | isolate | 안착 실패 → 격리 |
 | `FORCE_LIMIT` · `TIMEOUT` · `RACK_JAM` · `TOOL_FAIL` | retry:1 → isolate | 후퇴 뒤 한 번 더, 안 되면 격리 |
@@ -147,14 +148,15 @@
 | E39 | 🟡 **시연 대용품 — F4 가 2개(≈190 g)로 시험해 확정**(황인재 14:06 · 오늘 98 g 읽힘 50.1~91.4) · 임계 50 유지 |
 | E40 | **시연 운영 4건**(황인재 11:35) — 시연 배속 **0.5**(13:30 0.5 리허설 필수 · 문제면 0.3) · weigh_settle_s **8**(F4 PR) · **#93 은 시연 뒤 + 저녁 실기 검증(민범진 직접 · 14:06) 통과 뒤 merge**(검증 없이 merge 안 함 · NEW-02b = 민범진 구현 · 박진용은 NEW-02a) · 한석형·박진용 단위 확인은 저녁 통합과 같이 · **컵 2개 연속 리허설 필수** |
 | E41 | **시연 시나리오 = 그릇 2·컵 2 전부 배치 → 그릇1 → 그릇2 → 컵1 → 컵2**(강사 피드백 · 황인재 11:57) — 반납 구역 슬롯 2 추가(그릇 x +145 · 컵 x +95 · PR #96) · E9 자리 1개는 시연에서 대체 |
-| E42 | **`LEFTOVER_REMAIN` 정책 isolate → pause**(황인재 18:29) — 정책 isolate 갈래는 로봇을 옮기지 않아(기록만) 다음 PICK 의 손 벌리기가 든 용기를 떨어뜨림(PM 발견) → 시연은 멈춰서 사람이 재개/중단 · 동결 뒤 물리 격리 넣으면 되돌림 |
+| E42 | **`LEFTOVER_REMAIN` 정책 isolate → pause**(황인재 18:29) — 정책 isolate 갈래는 로봇을 옮기지 않아(기록만) 다음 PICK 의 손 벌리기가 든 용기를 떨어뜨림(PM 발견) → 시연은 멈춰서 사람이 재개/중단 · 동결 뒤 물리 격리 넣으면 되돌림 → **E52(9/25) 로 대체** |
 | E43 | **PR #102 넛지 SAFE_STOP 자동 복구 — 민범진 안 그대로 채택**(황인재 18:29) — main 충돌(wipe.py · #101 `_tool_tol_mm` 유지) 풀면 merge · 실기 🟡 저녁 민범진 |
 | E44 | **놓기·적재·툴 반납 힘 감시 0 + 마지막 15 mm 30 mm/s 완충**(황인재 18:1x · PR #105) — RACK_JAM·홀더 밀림 판정 없음(충돌 감지가 마지막 보호) · PM 5 mm 의견 기각 · 0.5 통합 12회 ✅ · 🟡 1.0 |
 | E45 | **동결 — main 8874dfc = `v1.0-demo`**(황인재 9/23 밤 · PM 태그 9/24) — 이후 기능 추가 금지 · 동결 뒤 코드는 시연 경로 무영향 안전장치·문서만 · 9/29 실기 확인 뒤 반영 · main 이 달라지면 `v1.0-demo.1` 재태그 |
 | E46 | 🟡 **보류**(황인재 9/24) — 배속 기본값은 9/29 오전 **1.0 통합 1바퀴** 뒤 결정(문제없으면 **시연도 1.0** · E40 갱신 · 배속 장치는 코드만 두고 시연에서 안 씀 · 실패하면 0.5) · tune2 의 0.5 는 revert |
 | E49 | **홈 B 방향 변경 안 함**(황인재 9/24 · 스펀지를 그리퍼 방향에 맞춰 잘라 둠) |
 | E50 | **컵 재파지 순응 하강 제거 `regrip_watch_mm 0`**(황인재 9/24 · tune2) — 곧게 내려 바로 잡기 + 15 mm 완충 · RINSE 84 → ≈45 s · 근거: 물체는 항상 지정 좌표, 07:55 는 동선 문제라 "접근점에서 자세 맞춘 뒤 Z 만" 으로 해결됨 → 동선 검증 뒤엔 조금씩 확인할 이유 없음(E44 원칙) · 9/29 컵 실기 1회로 새 동선 확인 |
-| E51 | **9/29 오전 검증 = 전체 흐름 2번 · 1.0 · tune2 코드**(황인재 9/24 21:5x) — 준비 10분(기준값 · 94 g 읽기) → 1회 기본 흐름(동결 확인 · E50 첫 실기) → 2회 예외 6개(케이블 톡톡 1번 · 정지/재개 · 수세미 빼기 TOOL_LOST · 잔반 남음 멈춤→재개 · 정지→중단 격리 · 컵 구역 빈손 SKIPPED) · 실패 대응 E50→45 · 1.0→0.5 · 통과 → PR → v1.0-demo.1 · 배속 장치는 시연 뒤 삭제 |
+| E51 | **9/29 오전 검증 = 전체 흐름 2번 · 1.0 · tune2 코드**(황인재 9/24 21:5x) — 준비 10분(기준값 · 94 g 읽기) → 1회 기본 흐름(동결 확인 · E50 첫 실기) → 2회 예외 6개(케이블 톡톡 1번 · 정지/재개 · 수세미 빼기 TOOL_LOST · 잔반 남음 멈춤→재개 · 정지→중단 격리 · 컵 구역 빈손 SKIPPED) · 실패 대응 E50→45 · 1.0→0.5 · 통과 → PR → v1.0-demo.1 · 배속 장치는 시연 뒤 삭제 → **E52 로 2회차 예외 7개 + 빈 시작** |
+| E52 | **예외 처리 재설계**(황인재 9/25 · F4 창 · tune2 21e10e7 · 실기 🟡 9/29) — 로봇 오류 2단(그 자리 멈춤 · 격리 이동 X · 신호 1 → 그리퍼만 열기 → 사람 수거 → 신호 2 → 위로 → HOME · 넛지 재개 허용) · 잔반 남음 pause→isolate(사람 없이 HOME→격리) · 툴 집기 실패 retry→pause · 힘 상한·시간 초과·중단 정리 함수 통일(위로→HOME→툴 반납→홈 용기 재파지→격리→HOME). 2회차 = ①②③④⑨⑤⑩ + 3회차 ⑥ 빈 시작(≈33분) · 담당 ⑨ 박진용 ⑩ 한석형. 🟡 열린 것: ⑩ 로봇 오류 만드는 법(a 충돌 / b 펜던트 보호정지 / c 제외) · F3 air_force_max_n 3 N(9/23 2.99 N) |
 | E47 | **떨림 상한 50 → 80 g**(황인재 9/24) — main 반영(PM) · 9/29 ④ 에서 확인(민범진) |
 | E48 | **넛지 힘 15 N 통일 · 횟수 1번**(케이블·툴 놓침 · 황인재 9/24 · 22:1x 2번 치기 철회) — 힘은 설정(PM) · tune2 `nudge_taps 1`(taps 코드는 남김 · 2 로 바꾸면 두 번) |
 | E39-종결 | **대용품 94 g 1개 · 임의 용기**(황인재 9/24) — 기준 50 유지 · 9/29 오전 무게 확인(각 3회 ≥ 65 g) 뒤 확정 |

diff --git a/docs/meetings/20260919_결정기록_DSN-03.md b/docs/meetings/20260919_결정기록_DSN-03.md
@@ -115,3 +115,6 @@
 | E51 | **9/29(화) 오전 검증 = 단독 rig 없이 전체 흐름 2번(코드 tune2 = main + E48 넛지 2번 + E50 재파지 곧게 · 배속 1.0)** (9/24 21:5x · 황인재 · F4 창 → PM 23:40) | 준비 10분(브링업 · bag · 기준값 2종 · 94 g 그릇·컵 각 1회 ≥ 65 g → 1개 확정 E39) → **1회 기본 흐름(≈14분)**: 그릇 2·컵 2·94 g 1개 · 손 안 댐 → 1.0 완주(E46)·E44·#104·E50 첫 실기(컵 재파지)·잔반 루프·떨림 80 · 통과 = 무정지 완주 + 알람 없음 + 파지 폭 정상 → **2회 예외 6개(≈12분)**: 그릇 2 · 컵 구역 비움 · 그릇 2 에 94 g 테이프 고정 — ① 그릇 1 무게 중 케이블 흔들기 → 톡톡 1번 재개(E47·E48 · 9/24 22:1x 1번으로) ② 세제에서 정지→재개 ③ 닦기 나선에서 수세미 빼기 → TOOL_LOST → 홀더에 꽂고 톡톡 1번 → 재PICK(#99·#102) ④ 그릇 2 잔반 남음 멈춤 → 대용품 제거 → 재개(E42) ⑤ 세제(수세미 든 채) 정지→중단 → HOME→반납→격리→HOME(E11) ⑥ 컵 구역 빈손 → SKIPPED → HOME(#98) → plan 완료. 뺀 것: 컵 잔반 중단 · GRIP_FAIL · 세제 펌프 · 0.3/0.5 바퀴 · 단독 rig. 실패 대응: E50→45 · 1.0→0.5 · 나머지는 시연 배치로 회피(E48 은 이미 1번). 담당: 버튼 황인재 · 케이블 민범진 · 수세미 빼기 박진용 · 대용품 한석형 · E-Stop 1명 · 기록 PM. 통과 → PR(실기 결과) → merge → `v1.0-demo.1` → 시연 1.0 · **배속 장치는 시연 뒤 삭제**(황인재) |
 | E48 | 🔄 **9/24 22:1x 황인재(F4 창): 횟수는 1번**(2번 치기 철회 · 힘 15 N 통일은 유지 · tune2 `cell.limits.nudge_taps 2 → 1` d306742 · `check_nudge(taps)` 코드는 남겨 두어 나중에 2 로 바꾸면 두 번 치기). 원래: **넛지(톡톡) 힘·횟수 통일 — 케이블 이상·툴 놓침 모두 15 N · 2번** (9/24 19:57 · 황인재 · PM 창) | 지금은 케이블 `f2.nudge.force_threshold_n` 5 N · 툴 놓침 `cell.limits.nudge_force_n` 15 N(0.15 s 유지 · 1번)으로 달랐다. 힘은 PM 이 설정으로 통일(5 → 15) · **2번 치기는 코드**(공용 감지 함수 하나로 · 두 번째 두드림까지 기다리는 창) = F4 tune2 브랜치 · 파일 주인(민범진 sense.py · 박진용 force.py) 멘션 · 9/29 오전 INT-4b ③④ 실기로 확인 · 실패하면 태그 v1.0-demo(옛 동작)로 |
 | E39-종결 | **시연 잔반 대용품 = 94 g 1개를 그릇 2·컵 2 중 임의 용기에** (9/24 19:57 · 황인재) — 판정 기준(50 g)은 그대로 · **9/29 오전 무게 확인 항목 추가**: 94 g 을 그릇·컵에 넣고 각 3회 읽어 모두 ≥ 65 g 이면 그대로, 하나라도 60 g 아래면 물체를 무겁게(2개) 또는 기준 조정 결정 | 9/23 98 g 읽은 값 50.1~91.4(빈 그릇 노이즈 ±25) — 50 아래로 읽히면 잔반 없음으로 지나가 물체가 든 채 닦는다 |
+| E52 | **예외 처리 재설계 — 로봇 오류 2단 · 잔반 남음 자동 격리 · 툴 집기 실패 멈춤 · 정리 함수 통일** (9/25 · 황인재 · F4 창 → PM 9/26 07:1x · 코드 tune2 21e10e7 자동 시험 536 · 실기 🟡 9/29) — ① 로봇 오류(ROBOT_ERROR): 그 자리 멈춤 · **격리 구역으로 가지 않는다**(위치를 모를 수 있다). 쥔 것(툴·용기)이 있으면 **2단**: 신호 1(톡 15 N 1번 또는 재개 버튼) → 그리퍼만 열기(팔 안 움직임) → 사람이 받아 처리(툴은 홀더에 · 스펀지 홈 용기도) → 신호 2 → 곧게 위로 → HOME → 이 용기 ERROR 기록 → 다음 용기. 빈손이면 신호 1번. 로봇 오류도 넛지 재개 허용(힘을 못 읽으면 재개 버튼만 기다림) ② 잔반 남음(LEFTOVER_REMAIN): pause → **isolate 되돌림** — 사람 없이 위로 → HOME → 격리 → HOME(#90/#103 경로) ③ 툴 집기 실패(TOOL_FAIL): retry:1→isolate → **pause** — 격리 없이 홀더 확인 → 톡 → 툴 집기부터 다시(툴 놓침 뒤 재PICK 실패도 같음) ④ 힘 상한·시간 초과(재시도 1회 뒤)·중단: **정리 함수 통일** — 위로 → HOME → 툴 반납 → 스펀지 홈에 용기가 있으면 다시 집고 HOME → 격리 → HOME(기록 코드는 원인 유지) ⑤ 안착 실패·적재 걸림은 시연 코드에서 날 수 없는 코드(정책 값 그대로) · 중단은 되돌릴 수 없음(재개는 일시 정지에만) · 빈 구역은 기록만 · 중단 버튼은 PAUSED 에서만(유지) · 버튼 글자 변경은 미답 | 근거: E42 가 지적한 "정책 isolate 가 기록만 남기고 로봇을 옮기지 않는" 빈틈을 정리 함수 하나로 닫는다(모든 격리 = 물리 격리). 로봇 오류는 위치를 모를 수 있으니 자동 이동 대신 사람이 받은 뒤에만 움직인다(SDD §7 MoveIncomplete 규칙 유지). flow.py(민범진 절)·params 정책은 결정에 따라 F4 가 tune2 에 구현 — **main 동결판(v1.0-demo)은 그대로**(pause · retry:1->isolate) · PR 은 9/29 실기 뒤. 열린 것(황인재 화요일 아침): ⑩ 로봇 오류 만드는 법 (a) 이동 중 팔 살짝 막아 충돌 감지 (b) 펜던트 보호정지 (c) 빼고 자동 시험으로 갈음 · F3 질문 `f3.wipe_bowl.air_force_max_n` 3 N vs 9/23 저녁 그릇 1 공중 2.99 N(0.01 N 차 · 넘으면 ROBOT_ERROR) |
+| E42-종결 | E52 ② 로 대체 — `LEFTOVER_REMAIN` 은 다시 isolate(정리 함수로 물리 격리). main 동결판은 pause 그대로 · tune2 PR merge 뒤 isolate | 9/29 ④ 실기에서 격리 경로 확인 · 실패하면 pause 로 되돌림(설정 한 줄) |
+| E51-갱신 | E52 로 **2회차 예외 6 → 7개 + 3회차 빈 시작 1분**(2회차 ≈15분 · 로봇 시간 ≈33분): ① 케이블 ② 정지/재개 ③ 툴 놓침(그릇 1) ④ 잔반 자동 격리(그릇 2) ⑨ 툴 집기 실패(컵 1 세제 직전 · 솔 빼 두기) ⑤ 중단(컵 1 닦기 · 솔 반납 → 홈 C 재파지 → 격리) ⑩ 로봇 오류 2단(컵 2 헹굼 이동 중) · 3회차 ⑥ 빈 시작. 담당 추가: ⑨ 솔 빼기 박진용 · ⑩ 컵 받기 한석형 · E-Stop 1명 | 대본 645340a · HMI 370eb72(갈래 tool_fail · 로봇 오류 2단 안내) · PR 은 "열어" 뒤 |

diff --git a/docs/04_결과_결과표.md b/docs/04_결과_결과표.md
@@ -8,9 +8,9 @@
 | 동결(E45) | main **8874dfc** = 태그 `v1.0-demo`(9/24) — PR #105(9/23 튜닝 1~3차)까지. 9/29 통과분을 합치면 `v1.0-demo.1` |
 | 자동 시험 | 로봇 쪽 **532 passed / 8 skipped**(두 환경) · HMI `pytest src/f4_hmi` 25 · `node --test` 8 |
 | PR | #1~#105 merge(9/18~9/23 · 9/23 하루 #89~#105 17건) |
-| 결정 | E1~E51(결정기록) — 시연에 유효한 것은 리마인드 §5 |
+| 결정 | E1~E52(결정기록 · E52 = 9/25 예외 재설계 · tune2 · 실기 🟡) — 시연에 유효한 것은 리마인드 §5 |
 | 실기 기록 | `docs/test_logs/` 32개(9/18~9/25) · 사고·교훈은 §6 |
-| 대기 | PR 2개(9/29 예외 대본 docs · tune2: 넛지 15 N·1번 · 컵 재파지 곧게 · 배속 기본값) · HMI PR(`injae/20260925-F4-hmi-complete`) — 모두 황인재 "열어" 뒤 |
+| 대기 | PR 2개(9/29 예외 대본 docs · tune2: 넛지 15 N·1번 · 컵 재파지 곧게 · 배속 기본값 · **E52 예외 재설계 21e10e7 · 536 통과 · 실기 🟡**) · HMI PR(`injae/20260925-F4-hmi-complete`) — 모두 황인재 "열어" 뒤 |
 
 ## 2. 수락 기준(AC · `01_요구사항_BR-SR.md` §6) 현황
 | AC | 기준 | 현황(9/23 동결 기준) | 근거 |
@@ -20,7 +20,7 @@
 | AC-3 파지·안착 ≥ 90 % | 고정 슬롯 파지 · 홈 안착 | ✅ 통합 12개 용기 슬롯 집기 12/12(빈 슬롯 헛잡음 → 다음 슬롯은 정상 동작) · 스펀지 홈 놓기 12/12 · 컵 옆면 재파지 6/6 | 9/23 §21 |
 | AC-4 안정성(힘) | 닦기 힘 목표 유지 · 힘 로그 · 상한 초과 후퇴 | ✅ 힘 로그 기록(CSV) · 닦기 \|Fz\| 그릇 평균 2.64 / 2.06 N · 최대 6.91 / 6.34 N · 컵 평균 1.82 · 최대 3.39 N · 상한 초과 시 `ForceLimitError` → 후퇴(코드 · 자동 시험) · 컵 회전 속도 사전검사(#104) | 9/23 §21 · PR #104 |
 | AC-5 정확성(적재) | 적재 ≥ 90 % · 낙하 0 · 칸·각도 | ✅ 팔레트 B1·B2·C1·C2 **12/12** · 낙하 0 · 컵은 뒤집어 적재(E38) · E44 로 곧게 놓기 + 15 mm 완충 | 9/23 §21 |
-| AC-6 지속성(실패 주입) | 빈 구역 · 잔반 과다 · 툴 미배치 · 팔레트 걸림 각 1회 | 🟡 **9/29 오전 예외 6개**(E51): 케이블 톡톡 재개 · 정지→재개 · 툴 놓침→넛지→재PICK · 잔반 남음 멈춤→재개(E42) · 정지→중단 격리(E11) · 빈 구역 SKIPPED. 팔레트 걸림은 E44 로 판정 없음(시연 코드에서 미발생) · 단위 실기: 케이블 자동 복구 1회(#102) · 툴 놓침 rig(#99) · 격리 J1 경로(#90) | 결정 E42 E44 E48 E50 E51 |
+| AC-6 지속성(실패 주입) | 빈 구역 · 잔반 과다 · 툴 미배치 · 팔레트 걸림 각 1회 | 🟡 **9/29 오전 예외 7개 + 빈 시작**(E51 · E52): 케이블 톡톡 재개 · 정지→재개 · 툴 놓침→넛지→재PICK · **잔반 남음 → 자동 격리**(E52) · **툴 집기 실패 → 멈춤 → 다시 집기**(E52) · 정지→중단 격리(E11 · E52 정리 통일) · **로봇 오류 2단**(E52 · 만드는 법은 화요일 결정) · 빈 구역 SKIPPED. 팔레트 걸림은 E44 로 판정 없음(시연 코드에서 미발생) · 단위 실기: 케이블 자동 복구 1회(#102) · 툴 놓침 rig(#99) · 격리 J1 경로(#90) | 결정 E42 E44 E48 E50 E51 |
 | AC-7 입출력 이해도 | HMI 단계·수량·소모품·오류 표시 · 기록 누락 0 | ✅ 화면 9/25 완성(UT-F4 TC-11 브라우저 12항목 · 소리 🟡) · 용기별 `records.csv` 1행 · `/flow/event` 4/4 · 🟡 실제 flow 연결은 9/29 준비 10분 | 9/25 UT-F4 · 9/23 bag |
 
 ## 3. 사이클 타임 (flow_node · 그릇 2 → 컵 2 · 초)
@@ -62,7 +62,7 @@
 | 9/23 07:55 | 컵 재파지 중 안전정지 | 관절 이동 동선에 컵이 있는 줄 모르고 지나감 | 접근점에서 자세를 맞춘 뒤 **Z 만 곧게**(E14 · 규칙 AGENTS §3-2 보완) |
 | 9/23 17:43 | 세제 단계에서 크래시 | 툴 놓침 감시가 종류별 허용오차 표를 숫자로 읽음(#96 × #99) | hotfix #101 · 검토 기준에 "표 vs 숫자" 추가 |
 | 9/23 18:07 | 1.0 배속 솔 반납 중 안전정지 | 5 mm 순응 감시 · 완충 없음 | 감시 0 + 마지막 15 mm 30 mm/s 완충(E44) · 🟡 1.0 재확인 9/29 |
-| 9/23 (검토) | 정책 "격리" 갈래가 로봇을 옮기지 않음 | 이벤트만 기록 → 다음 집기의 손 벌리기가 든 용기를 떨어뜨릴 수 있음 | 시연은 `LEFTOVER_REMAIN: pause`(E42) · 흐름 갈래 #103 은 시연 뒤 |
+| 9/23 (검토) | 정책 "격리" 갈래가 로봇을 옮기지 않음 | 이벤트만 기록 → 다음 집기의 손 벌리기가 든 용기를 떨어뜨릴 수 있음 | 시연은 `LEFTOVER_REMAIN: pause`(E42) → **E52(9/25)** 정리 함수 통일로 모든 격리가 물리 격리(tune2 · 🟡 9/29 ④) |
 
 ## 7. 남은 🟡 (9/29 오전에 닫는다 · E51)
-- 1.0 배속 통합 1바퀴(E46 · 시연 배속) · 컵 재파지 곧게(E50) · 넛지 15 N 1번(E48) · 떨림 80(E47) · 94 g 읽기(E39) · 예외 6개(AC-6) · HMI 실제 연결 + 소리(AC-7) · 세제 펌프(구매 뒤 단독 확인 · 시연 포함 별도 결정).
+- 1.0 배속 통합 1바퀴(E46 · 시연 배속) · 컵 재파지 곧게(E50) · 넛지 15 N 1번(E48) · 떨림 80(E47) · 94 g 읽기(E39) · 예외 7개 + 빈 시작(AC-6 · E52 로봇 오류 2단 · 툴 집기 실패 · 잔반 자동 격리) · HMI 실제 연결 + 소리(AC-7) · 세제 펌프(구매 뒤 단독 확인 · 시연 포함 별도 결정).

diff --git a/docs/02_인터페이스_IRD.md b/docs/02_인터페이스_IRD.md
@@ -136,13 +136,14 @@ f1.pick('RET_B', 'BOWL') → f1.move_to('WEIGH', True, 'BOWL') → f2.leftover_l
 | 코드 | 처리 |
 |---|---|
 | `EMPTY_ZONE` | 구역 종료 → 다음 구역 (기록 SKIPPED) |
-| `LEFTOVER_REMAIN` | 🔄 E42(황인재 9/23): **PAUSED** → 사람이 resume(다시 잰다) / abort(HOME → ISOLATE → 다음 용기). 정책 isolate 는 이송 없이 기록만 남겨(flow.handle_failure) 든 용기를 떨어뜨린다 — 시연 뒤 물리 격리를 넣으면 isolate 로 |
+| `LEFTOVER_REMAIN` | 🔄 E52(황인재 9/25 · tune2 · 🟡 9/29): **ISOLATE** — 사람 없이 위로 → HOME → ISOLATE → HOME → 다음 용기(정리 함수 통일 · E42 의 "기록만" 빈틈 닫힘). main 동결판은 E42 PAUSED |
 | `SEAT_FAIL` | ISOLATE 후 다음 용기 (🟡 위와 같은 빈틈 · 시연 범위 밖 E28) |
-| `FORCE_LIMIT` `TIMEOUT` `RACK_JAM` `TOOL_FAIL` | 후퇴 후 재시도 1회 → ISOLATE |
+| `FORCE_LIMIT` `TIMEOUT` `RACK_JAM` | 후퇴 후 재시도 1회 → ISOLATE — 🔄 E52(tune2): 격리 = 정리 함수 통일(위로 → HOME → 툴 반납 → 홈 용기 재파지 → ISOLATE → HOME · abort 와 같은 길) |
+| `TOOL_FAIL` | 🔄 E52(황인재 9/25 · tune2): **PAUSED** → 홀더 확인 → 넛지/resume → 툴 집기부터 다시(ISOLATE 안 함). main 동결판은 retry:1 → ISOLATE |
 | `TOOL_LOST` | 🆕 9/23 E37(9/22 회의 합의 · 황인재 승인): F3 가 닦는 중 폭 재확인으로 툴(수세미·솔) 놓침을 감지해 돌려준다 → flow 는 **정지(PAUSED)** → 사람이 홀더에 다시 넣고 재개 신호(넛지·HMI) → `f1.tool(kind, PICK)` 재호출 → F3 함수 재실행(GRIP_FAIL 정책 E12 와 같은 패턴 · 격리 아님) · 새 기능 NEW-02a 와 한 흐름 |
 | `GRIP_FAIL` (f2: 털기·담금 중 미끄러짐 · 무게로 본 빈손) | ✅ **PAUSED + HMI 알림 → 사람이 확인**(황인재 9/20 17:25). 놓쳤다면 용기가 손에 없을 수 있어 격리 동작이 의미 없고, 떨어진 용기를 다음 동작이 칠 수 있다. 확인 뒤 `resume` = 그 단계부터 다시 / `abort` = 그 용기를 접고 다음 용기 |
 | `RACK_FULL` | PAUSED + HMI 알림 → 팔레트 교체 후 **resume = 실패한 단계(적재)부터 다시** / **abort = 그 용기를 격리**하고 다음 용기 |
-| `ROBOT_ERROR` (기능 함수에서 새어 나온 예외 포함) | 그 자리 정지 → PAUSED + 알림 → **사람이 복구**(SDD §7). `abort`는 거부, 복구 뒤 `resume`하면 다음 용기부터(그 용기는 `ERROR`로 기록) |
+| `ROBOT_ERROR` (기능 함수에서 새어 나온 예외 포함) | 그 자리 정지 → PAUSED + 알림 → **사람이 복구**(SDD §7). `abort`는 거부, 복구 뒤 `resume`하면 다음 용기부터(그 용기는 `ERROR`로 기록) 🔄 E52(9/25 · tune2): 격리 이동 없음 · 쥔 것이 있으면 2단(신호 1 → release 만 → 사람 수거 → 신호 2 → 위로 → HOME → ERROR 기록 → 다음 용기) · 넛지 재개 허용 |
 | 일시 정지 버튼 | **즉시** 그 자리에서 멈춤 → PAUSED (안착 탐색·그리퍼·무게 대기는 그 동작을 마친 뒤) → **재개**(하던 동작을 이어서) 또는 **중단**(`abort` — 격리 후 다음 용기) |
 
 ## 9. 설정 파일 (IR-07) — 파일 2개
